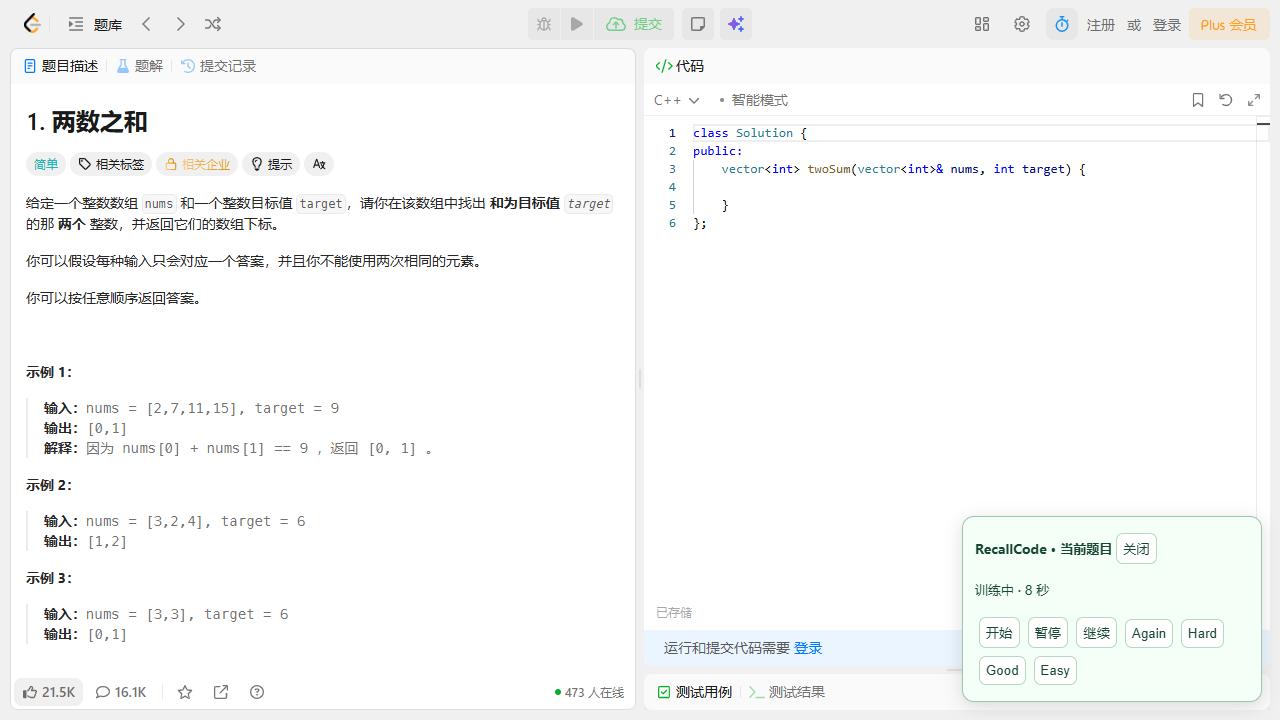
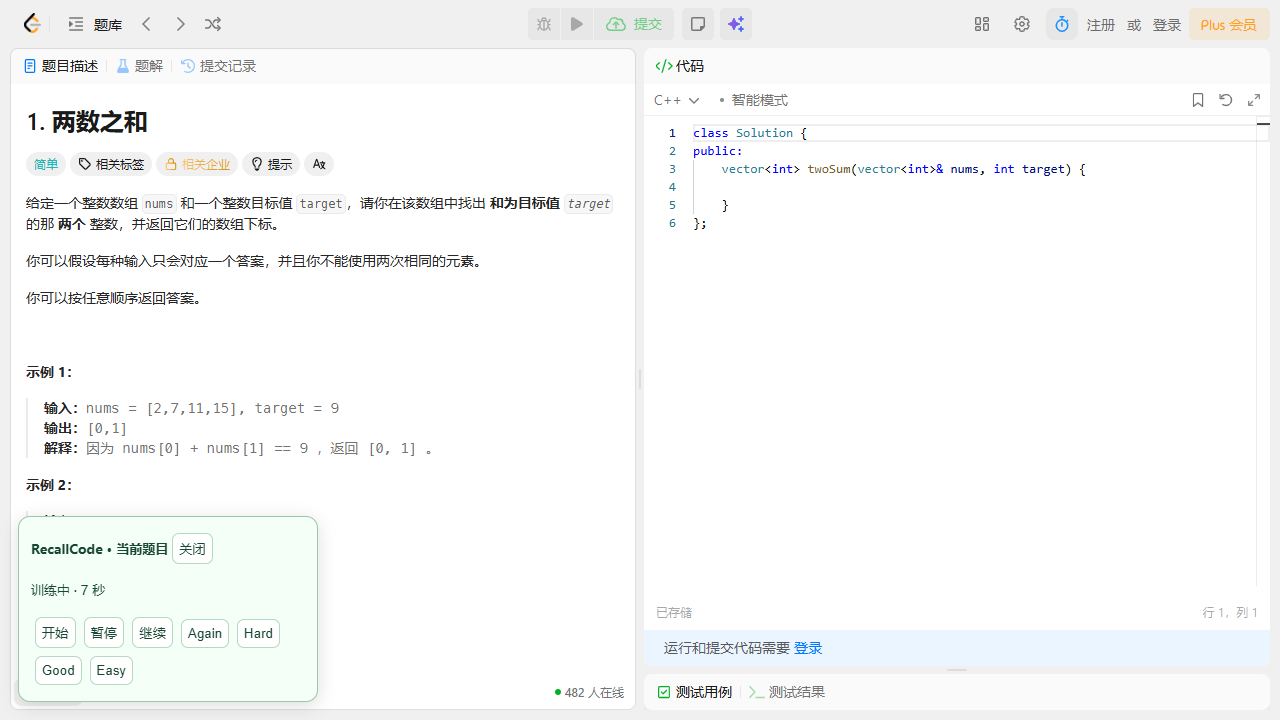
fix: keep LeetCode training controls outside the editor

diff --git a/extension/public/content.js b/extension/public/content.js
@@ -7,7 +7,7 @@
     const host = document.createElement("div");
     host.id = "recallcode-inline";
     host.style.cssText =
-      "position:fixed;bottom:18px;right:18px;z-index:2147483000;max-width:300px";
+      "position:fixed;bottom:18px;left:18px;z-index:2147483000;max-width:300px";
     const root = host.attachShadow({ mode: "open" });
     const style = document.createElement("style");
     style.textContent =

diff --git a/docs/RECALLCODE_V2_VALIDATION.md b/docs/RECALLCODE_V2_VALIDATION.md
@@ -17,6 +17,7 @@
 - 扩展：真实执行 `npm ci`、`npm run test`、`npm run build`；20 项测试通过，8 个文件。
 - `npm audit`：0 个已知漏洞（本次检查时）。
 - 浏览器：Chrome for Testing 156.0.8078.4；原始机器结果见 `extension/test-results/e2e/report.json`，归档副本和截图见本目录 `recallcode-v2-evidence/`。
+- 正式 `dist` 另行按原始 Manifest 加载：无默认力扣站点权限、工具栏侧栏配置生效、首次引导可打开（`dist-smoke.json`）。真实力扣 1280px 页面上，浮层位于题面侧，未占右侧编辑区。
 - 覆盖规范化/恶意 URL、精确题量、跨题单共享/改名/删除、真实 FSRS 四档及序列化、7/30/90 天 × 15/30/60 分钟恢复、新题/初评预算、同日稳定、完成/暂缓、时区/DST、统计、损坏备份、事务回滚、重复恢复、v1 隐私/缺失关系/幂等、并发评分、心跳限额、无操作暂停、来源拒绝、显式孤立清理。
 
 ## 真实浏览器链路
